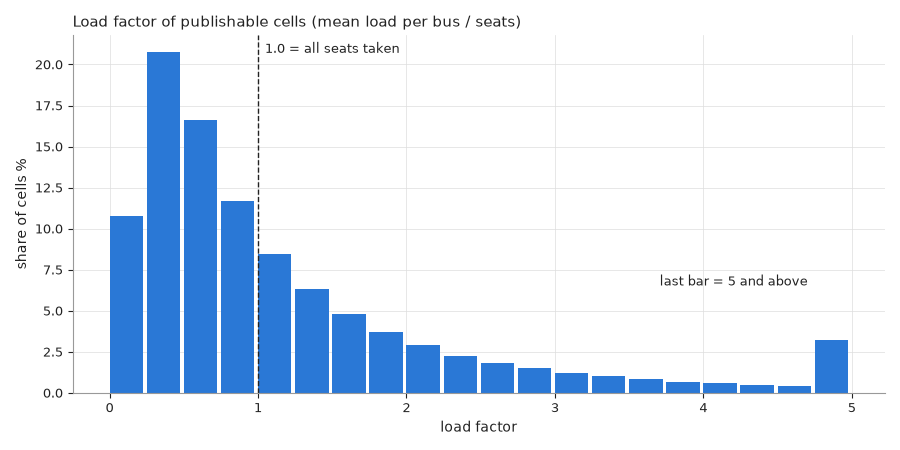
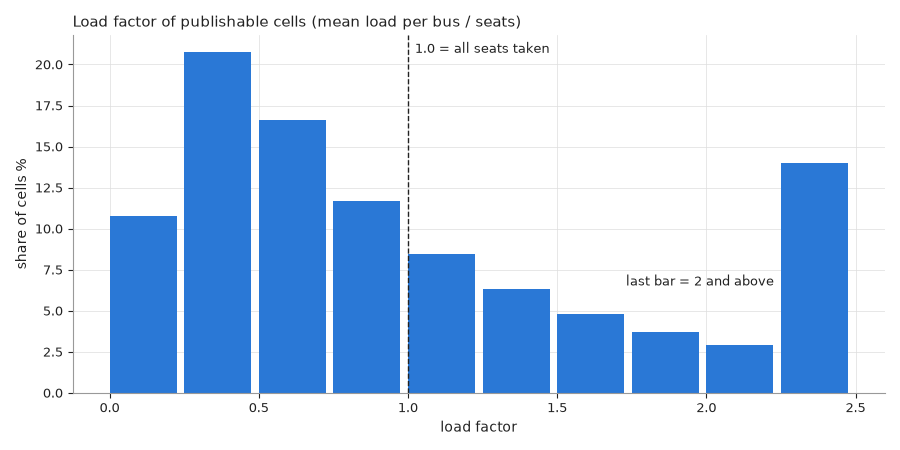
Model: seat chance from trip-to-trip variation; cap at 1.5x capacity; CHECKS adds output plausibility and level stability
Jury review item 8 and the rerun package. P(seat) uses cv_trip = sqrt(max(cv_day^2 - scale/f, 0) + run_cv^2): day-to-day variation minus its sampling part, plus bus-to-bus variation (median 0.87 -> 0.43); the full cv still sets the range and confidence. Levels are unchanged to four decimals. Loads above 1.5x total capacity are capped and marked low confidence (12.3% of cells). CHECKS gains section 13 (mean load per observed bus by hour, crushed share by hour and flow band, shares above 1.5x and 2x capacity, N_obs < 1) and section 14 (week 1 vs week 2 published levels: 89.2% within one level vs a 92.4% split-half ceiling). Key numbers are in coverage.json 'checks'.

diff --git a/src/seatcast/checks.py b/src/seatcast/checks.py
@@ -737,6 +737,125 @@ def verdict(L):
             f"{hi['routes_over_cap']} routes carrying {hi['routes_over_cap_pax_pct']}%, which is too much of the network to treat as noise.")
 
 
+PLAUS = '''
+CREATE OR REPLACE TEMP TABLE pc AS SELECT daytype, slot // 2 h, L, total, f, N_obs, censored, level, confidence, n,
+  {e} * calib * f / N_obs raw FROM {cells} WHERE flag IS NULL;
+'''
+
+
+def plaus(con, e):
+    # published cells only; raw = uncensored load. f bands are quartiles of weekday cell flow
+    con.execute(PLAUS.format(e=e, cells=CELLS))
+    wk = "daytype = 'weekday'"
+    hr = sql(con, f'''SELECT h, count(*) cells, avg(L) mean_L, avg(raw) mean_raw, avg((level LIKE 'CRUSHED%')::INT) crushed
+        FROM pc WHERE {wk} GROUP BY 1 ORDER BY 1''')
+    band = sql(con, f'''WITH b AS (SELECT *, ntile(4) OVER (ORDER BY f) q FROM pc WHERE {wk})
+        SELECT q, min(f) f_lo, max(f) f_hi, count(*) cells, avg((level LIKE 'CRUSHED%')::INT) crushed,
+        avg((confidence = 'low')::INT) low FROM b GROUP BY 1 ORDER BY 1''')
+    tot = sql(con, """SELECT count(*) cells, avg((raw > 1.5 * total)::INT) a15, avg((raw > 2 * total)::INT) a2,
+        avg((N_obs < 1)::INT) nobs1, avg(censored::INT) cens, avg((confidence = 'low')::INT) low FROM pc""").iloc[0]
+    return hr, band, tot
+
+
+STAB = '''
+CREATE OR REPLACE TEMP TABLE w AS SELECT route_id, s0, s1, slot + j slot, date, week, SUM(pax) pax
+  FROM {flows}, (SELECT unnest(range(-{w}, {w} + 1)) j)
+  WHERE daytype = 'weekday' AND week IN (1, 2) AND slot + j BETWEEN 0 AND {last}
+  AND date NOT IN (SELECT CAST(date AS DATE) FROM read_csv({daily}) WHERE flag) GROUP BY ALL;
+CREATE OR REPLACE TEMP TABLE d AS SELECT date, week, row_number() OVER (ORDER BY date) r FROM (SELECT DISTINCT date, week FROM w);
+CREATE OR REPLACE TEMP TABLE nd AS SELECT
+  count(*) FILTER (WHERE week = 1) a, count(*) FILTER (WHERE week = 2) b,
+  count(*) FILTER (WHERE r % 2 = 1) ha, count(*) FILTER (WHERE r % 2 = 0) hb FROM d;
+CREATE OR REPLACE TEMP TABLE g AS SELECT route_id, s0, s1, slot,
+  SUM(pax) FILTER (WHERE d.week = 1) / (SELECT a FROM nd) fa, SUM(pax) FILTER (WHERE d.week = 2) / (SELECT b FROM nd) fb,
+  SUM(pax) FILTER (WHERE d.r % 2 = 1) / (SELECT ha FROM nd) ha, SUM(pax) FILTER (WHERE d.r % 2 = 0) / (SELECT hb FROM nd) hb
+  FROM w JOIN d USING (date, week) GROUP BY ALL;
+CREATE OR REPLACE TEMP TABLE x AS SELECT g.*, k.* EXCLUDE (route_id, s0, s1, slot) FROM g JOIN
+  (SELECT route_id, from_stop s0, to_stop s1, slot, N_obs, seats, total, calib, confidence
+   FROM {cells} WHERE flag IS NULL AND daytype = 'weekday') k USING (route_id, s0, s1, slot);
+CREATE OR REPLACE MACRO lv(f, N, s, t, e) AS CASE WHEN coalesce(f, 0) * e / N / s < {many} THEN 0
+  WHEN coalesce(f, 0) * e / N / s < {few} THEN 1 WHEN coalesce(f, 0) * e / N < t THEN 2 ELSE 3 END;
+'''
+
+
+def stability(con, e):
+    # published level from week 1 flow against week 2, and the split-half (odd vs even days) ceiling
+    k = cfg()
+    con.execute(STAB.format(flows=q1(WORK / 'flows.parquet'), daily=DAILY, cells=CELLS, w=k['slot_window'],
+                            last=24 * 60 // k['slot_min'] - 1, **k['levels']))
+    out = []
+    for name, (a, b) in {'week 1 vs week 2': ('fa', 'fb'), 'odd vs even days (ceiling)': ('ha', 'hb')}.items():
+        x, y = (f'lv({c}, N_obs, seats, total, {e} * calib)' for c in (a, b))
+        r = sql(con, f'''SELECT CASE WHEN grouping(confidence) = 1 THEN 'all' ELSE confidence END conf, count(*) cells,
+            avg(({x} = {y})::INT) same, avg((abs({x} - {y}) <= 1)::INT) within1 FROM x GROUP BY ROLLUP (confidence)''')
+        out += [{'pair': name, **r_} for r_ in r.to_dict('records')]
+    return pd.DataFrame(out)
+
+
+def checks_key(hr, tot, st):
+    w, s = 'week 1 vs week 2', 'odd vs even days (ceiling)'
+
+    def g(p, c):
+        return st[(st['pair'] == p) & (st['conf'] == c)].iloc[0]
+
+    def f(x):
+        return round(float(x), 4)
+    h = hr.set_index('h')
+    return {'weekday_mean_load_0900': f(h.loc[9, 'mean_L']), 'weekday_mean_load_1800': f(h.loc[18, 'mean_L']),
+            'weekday_mean_raw_load_0900': f(h.loc[9, 'mean_raw']), 'weekday_mean_raw_load_1800': f(h.loc[18, 'mean_raw']),
+            'share_above_1_5x_total': f(tot['a15']), 'share_above_2x_total': f(tot['a2']),
+            'share_nobs_below_1': f(tot['nobs1']), 'share_censored': f(tot['cens']), 'share_low_confidence': f(tot['low']),
+            'same_level_week': f(g(w, 'all')['same']), 'within_one_week': f(g(w, 'all')['within1']),
+            'same_level_ceiling': f(g(s, 'all')['same']), 'within_one_ceiling': f(g(s, 'all')['within1']),
+            'same_level_week_high': f(g(w, 'high')['same']), 'within_one_week_high': f(g(w, 'high')['within1']),
+            'same_level_ceiling_high': f(g(s, 'high')['same']), 'within_one_ceiling_high': f(g(s, 'high')['within1'])}
+
+
+def merge_checks(d):
+    f = OUT / 'coverage.json'
+    cov = json.loads(f.read_text(encoding='utf-8'))
+    cov['checks'] = d
+    f.write_text(json.dumps(cov, indent=2, default=str), encoding='utf-8')
+
+
+def unstable(rr, hi, name):
+    r = rr[rr['route'] == name]
+    if r.empty:
+        return f'{name} has no week-to-week rho.'
+    r = r.iloc[0]
+    s = f"{name} has rho {r['rho']:.2f} against the {hi} threshold"
+    if r['rho'] >= hi:
+        return s + ', so it is not unstable.'
+    rank = int((rr[rr['rho'] < hi]['n'] > r['n']).sum()) + 1
+    return s + f', so it is unstable (rank {rank} by sampled passengers among the unstable routes).'
+
+
+def sec13(hr, band, tot, ctop):
+    return f'''## 13. Output plausibility
+
+Published cells (flag none), weekday unless stated. Mean load per observed bus is the published load (censored at {ctop} x total); the raw column is uncensored.
+
+{table(hr.to_dict('records'), [('hour', 'h'), ('cells', 'cells'), ('mean load per observed bus', 'mean_L'), ('mean raw load', 'mean_raw'), ('crushed share', 'crushed')], {'cells': ',', 'mean_L': '.1f', 'mean_raw': '.1f', 'crushed': '.1%'})}
+
+Crushed share by weekday cell flow quartile (f = digital passengers per day on the segment and slot):
+
+{table(band.to_dict('records'), [('quartile', 'q'), ('f from', 'f_lo'), ('f to', 'f_hi'), ('cells', 'cells'), ('crushed share', 'crushed'), ('low confidence', 'low')], {'q': 'd', 'f_lo': '.2f', 'f_hi': '.2f', 'cells': ',', 'crushed': '.1%', 'low': '.1%'})}
+
+Of {int(tot['cells']):,} published cells, {100 * tot['a15']:.1f}% have raw load above 1.5 x total capacity and {100 * tot['a2']:.1f}% above 2 x. {100 * tot['nobs1']:.1f}% have fewer than one observed bus in the slot window (N_obs < 1). Censored cells: {100 * tot['cens']:.1f}%; low confidence overall: {100 * tot['low']:.1f}%.
+'''
+
+
+def sec14(st, un_line):
+    return f'''## 14. Published-level stability
+
+Level recomputed from week 1 and week 2 weekday flow (same N_obs, capacity and E) and compared per cell. The odd-versus-even-days split of the same two weeks is the ceiling: it has no week effect, only sampling noise.
+
+{table(st.to_dict('records'), [('comparison', 'pair'), ('confidence', 'conf'), ('cells', 'cells'), ('same level', 'same'), ('within one level', 'within1')], {'cells': ',', 'same': '.1%', 'within1': '.1%'})}
+
+Unstable routes: {un_line}
+'''
+
+
 def build(con, cov, gp, dy):
     L, M, k = cov['load'], cov['match'], cfg()
     am, pm = k['periods']['am'], k['periods']['pm']
@@ -878,6 +997,11 @@ Delivered service (observed bus-km against scheduled), all days of October:
 
 {verdict(L)}
 ''')
+    ph, pb, pt = plaus(con, L['E']['central'])
+    st = stability(con, L['E']['central'])
+    merge_checks(checks_key(ph, pt, st))
+    S.append(sec13(ph, pb, pt, k['censor_factor']))
+    S.append(sec14(st, unstable(rr, hi, '794DOWN')))
     return '\n'.join(S)
 
 

diff --git a/tests/test_load.py b/tests/test_load.py
@@ -38,3 +38,13 @@ def test_observed_n_joins_route_daytype_band():
     o = load.observe(c, r, 'h')
     assert o['N_obs'].tolist() == [2.0, 3.0, 4.0]  # B has no row: ratio 1
     assert load.observe(c, None, 'h')['N_obs'].tolist() == [4.0, 4.0, 4.0]
+
+
+def test_cv_trip_not_above_cv_and_censor():
+    c = pd.DataFrame({'N': [4.0, 4.0], 'N_obs': [4.0, 1.0], 'n': [50.0, 50.0], 'calib': 1.0, 'f': [8.0, 8.0],
+                      'total': 60.0, 'seats': 39.0, 'cv_day': [0.9, 0.3], 'scale': [2.0, 2.0], 'rho': 0.9})
+    r = load.model(c, {'low': 1.0, 'central': 1.0, 'high': 1.0})
+    assert (r['cv_trip'] <= r['cv']).all() and (r['cv_trip'] > 0).all()
+    assert r['censored'].tolist() == [False, False] and r['L'].tolist() == [2.0, 8.0]
+    h = load.model(c.assign(f=[800.0, 800.0], scale=1.0), {'low': 1.0, 'central': 1.0, 'high': 1.0})
+    assert h['censored'].all() and (h['L'] == 90).all() and (h['confidence'] == 'low').all()

diff --git a/src/seatcast/load.py b/src/seatcast/load.py
@@ -145,7 +145,9 @@ def model(c, E):
         c[x] = np.minimum(e * c['calib'] * c['f'] / N, top)  # censored: well sampled, magnitude uncertain
     c['LF'] = c['L'] / c['seats']
     c['cv'] = np.sqrt(1 / c['n'].clip(lower=1) + c['cv_day'] ** 2 + run2)
-    c['p_seat'] = p_seat(c['L'].fillna(0), c['seats'], c['cv'])
+    # trip-to-trip spread only: day-to-day CV minus its sampling-noise share (scale / f), plus bus-to-bus run_cv
+    c['cv_trip'] = np.sqrt((c['cv_day'] ** 2 - c['scale'] / c['f']).clip(lower=0) + run2)
+    c['p_seat'] = p_seat(c['L'].fillna(0), c['seats'], c['cv_trip'])
     for x in ['low', '', 'high']:
         c['level' + (x and '_' + x)] = level(c['L' + (x and '_' + x)], c['seats'], c['total'])
     c['flag'] = np.select([c['N'] == 0, c['n'] < n], ['gap', 'low_n'], None)

diff --git a/tests/test_data.py b/tests/test_data.py
@@ -171,7 +171,7 @@ def test_cells():
 def test_load_sanity():
     m = json.loads(COV.read_text(encoding='utf-8'))['load']
     assert m['represent']['represented_pct'] > 95  # placed + imputed + scaled digital passengers
-    assert m['censored_pct_of_cells'] < 5  # regression floor; cells above censor_factor x total are clipped
+    assert m['censored_pct_of_cells'] < 15  # regression floor (12.3 at censor_factor 1.5); cells above censor_factor x total are clipped
     assert m['schedule_gap_pax_pct'] < 5
 
 

diff --git a/docs/CHECKS.md b/docs/CHECKS.md
@@ -40,7 +40,7 @@ Morning peak 9:00 (14,327 passengers per day), evening peak 18:00 (9,902). Quiet
 | saturday | 5 | 81,251 |
 | sunday | 6 | 50,216 |
 
-Weekday cells carry more flow than Sunday cells in 79.1% of the cells both day types share. Holidays count as Sundays.
+Weekday cells carry more flow than Sunday cells in 75.6% of the cells both day types share. Holidays count as Sundays.
 
 ## 5. Busiest corridors
 
@@ -131,44 +131,44 @@ Days flagged (beyond the configured deviation from the same-weekday median): non
 
 ![Load factor distribution](img/lf_hist.png)
 
-Publishable cells: 2,312,450 of 4,411,005. Load factor p10 / p50 / p90 / p99 = 0.241 / 0.785 / 2.743 / 4.865.
-Over seats: 40.19% of cells. Over total capacity: 22.94%. Censored at 3 x total capacity: 3.037% of cells (these show as the top load factor, which is the censor cap and explains the repeated top values below).
+Publishable cells: 2,312,452 of 4,411,005. Load factor p10 / p50 / p90 / p99 = 0.241 / 0.785 / 2.427 / 2.432.
+Over seats: 40.19% of cells. Over total capacity: 22.94%. Censored at 1.5 x total capacity: 12.338% of cells (these show as the top load factor, which is the censor cap and explains the repeated top values below).
 
 Routes with most censored cells:
 
 | route | dir | censored cells | sampled pax-segments |
 |---|---|---|---|
-| 717A | UP | 1686 | 858,651 |
-| 717 | DOWN | 1541 | 321,713 |
-| 717 | UP | 1455 | 347,035 |
-| 717A | DOWN | 1441 | 729,924 |
-| 539 | DOWN | 1118 | 396,422 |
-| 717B | DOWN | 1087 | 384,845 |
-| 774 | DOWN | 831 | 315,947 |
-| 774 | UP | 811 | 239,909 |
-| 525 | DOWN | 798 | 165,581 |
-| 525 | UP | 798 | 171,869 |
+| 717A | UP | 4184 | 1,265,266 |
+| 717A | DOWN | 3131 | 1,018,869 |
+| 717 | UP | 3123 | 493,728 |
+| 717 | DOWN | 3087 | 442,655 |
+| 717B | DOWN | 2861 | 572,458 |
+| 539 | UP | 2330 | 447,017 |
+| 706 | DOWN | 2262 | 257,397 |
+| 539 | DOWN | 1970 | 505,392 |
+| 774 | DOWN | 1954 | 436,957 |
+| 717B | UP | 1890 | 413,987 |
 
 Ten most crowded route-hours by standee-minutes:
 
 | route | day type | hour | standee-min | LF | sampled pax | stretch |
 |---|---|---|---|---|---|---|
-| 717ADOWN | saturday | 9 | 95,479 | 4.86 | 273 | Shiv Murti  2 (NH8) /  Dwarka Mor -> Mahipal Pur Village |
-| 729DOWN | weekday | 8 | 93,058 | 4.86 | 1,288 | Uppal Hotel -> Shiv Murti (NH8) |
-| 717ADOWN | weekday | 9 | 85,633 | 4.86 | 951 | Kathuria Public School/Vasant Kunj D7 -> Masood Pur Dairy |
-| 729DOWN | saturday | 8 | 82,395 | 4.86 | 303 | Shiv Murti (NH8) -> Rang puri (NH8) |
-| 717AUP | saturday | 8 | 81,880 | 4.86 | 369 | Saket Crossing -> Maidan Garhi Crossing (SDM Court) |
-| 578DOWN | weekday | 8 | 81,430 | 4.86 | 803 | Check Post  /  Toll Tax Post -> Bamnoli Crossing |
-| 717ADOWN | saturday | 8 | 80,990 | 4.86 | 229 | Samalkha Crossing -> Shiv Murti  2 (NH8) /  Dwarka Mor |
-| 729DOWN | weekday | 9 | 78,437 | 4.86 | 875 | Uppal Hotel -> Shiv Murti (NH8) |
-| 539DOWN | saturday | 9 | 75,764 | 4.86 | 142 | Jhatikara Crossing -> Rewla Taj Pur More |
-| 539UP | weekday | 20 | 75,634 | 4.86 | 489 | Kapashera Village Bijwasan Road -> Shri Golok Dham Bijwasan School / Bijwason School |
+| 729DOWN | weekday | 8 | 41,823 | 2.43 | 1,288 | Uppal Hotel -> Shiv Murti (NH8) |
+| 717ADOWN | sunday | 9 | 41,053 | 2.43 | 199 | VASANT KUNJ BUS STAND / Vasant Kunj sec B-1 -> Vasant Kunj SecD/34 |
+| 729DOWN | saturday | 8 | 41,028 | 2.43 | 303 | Shiv Murti (NH8) -> Rang puri (NH8) |
+| 717ADOWN | saturday | 9 | 39,676 | 2.43 | 273 | Shiv Murti  2 (NH8) /  Dwarka Mor -> Mahipal Pur Village |
+| 729UP | weekday | 9 | 38,895 | 2.43 | 772 | Shiv Murti -> Rajokari Xing |
+| 729DOWN | sunday | 10 | 38,255 | 2.43 | 189 | Mahipal Pur (NH8) / MAHIPAL PUR CROSSING -> Shankar Vihar NH8 / Shankar Vihar |
+| 729UP | weekday | 8 | 37,894 | 2.43 | 586 | Shiv Murti -> Rajokari Xing |
+| 764DOWN | weekday | 9 | 37,514 | 2.43 | 572 | RK Puram Sec 6 -> Swami Malai Mandir |
+| 729DOWN | sunday | 8 | 37,400 | 2.43 | 262 | Shiv Murti (NH8) -> Rang puri (NH8) |
+| 729DOWN | weekday | 9 | 37,328 | 2.43 | 875 | Uppal Hotel -> Shiv Murti (NH8) |
 
 ## 10. Where estimates are weakest
 
-- Low-n cells: 1,567,115 of 4,411,005 cells have fewer than 5 sampled passengers and are shown as limited data. Of the publishable cells, confidence is high 24.21%, medium 42.72%, low 33.07%.
+- Low-n cells: 1,567,113 of 4,411,005 cells have fewer than 5 sampled passengers and are shown as limited data. Of the publishable cells, confidence is high 18.83%, medium 39.23%, low 41.94%.
 - Schedule gaps: 531,440 cells carry passengers but no scheduled bus (2.62% of passengers).
-- Hours with the highest low-confidence share: 0:00 (54%), 4:00 (53%), 3:00 (50%).
+- Hours with the highest low-confidence share: 4:00 (59%), 0:00 (56%), 23:00 (53%).
 
 Ten worst-placed routes among the 100 busiest by passengers:
 
@@ -189,30 +189,30 @@ Per hour of day, publishable cells:
 
 | hour | cells | low confidence | mean sampled pax-segments |
 |---|---|---|---|
-| 0 | 1,579 | 54% | 13.5 |
-| 1 | 1,562 | 46% | 19.0 |
-| 2 | 1,341 | 48% | 18.1 |
-| 3 | 1,703 | 50% | 13.4 |
-| 4 | 5,451 | 53% | 16.0 |
-| 5 | 33,300 | 42% | 22.8 |
-| 6 | 83,900 | 36% | 28.7 |
-| 7 | 136,634 | 32% | 40.5 |
-| 8 | 184,646 | 29% | 62.2 |
-| 9 | 197,538 | 28% | 69.9 |
-| 10 | 174,937 | 29% | 51.1 |
-| 11 | 143,194 | 32% | 33.8 |
-| 12 | 118,150 | 36% | 26.5 |
-| 13 | 100,359 | 38% | 23.3 |
-| 14 | 97,212 | 39% | 22.7 |
-| 15 | 103,892 | 37% | 24.7 |
-| 16 | 121,198 | 35% | 28.7 |
-| 17 | 147,804 | 33% | 37.7 |
-| 18 | 164,966 | 31% | 49.0 |
-| 19 | 159,177 | 31% | 51.5 |
-| 20 | 140,121 | 32% | 44.0 |
-| 21 | 107,800 | 34% | 34.2 |
-| 22 | 63,962 | 39% | 25.6 |
-| 23 | 22,024 | 49% | 17.8 |
+| 0 | 1,579 | 56% | 13.5 |
+| 1 | 1,562 | 50% | 19.0 |
+| 2 | 1,341 | 49% | 18.1 |
+| 3 | 1,703 | 51% | 13.4 |
+| 4 | 5,451 | 59% | 16.0 |
+| 5 | 33,300 | 49% | 22.8 |
+| 6 | 83,900 | 41% | 28.7 |
+| 7 | 136,632 | 40% | 40.5 |
+| 8 | 184,646 | 42% | 62.2 |
+| 9 | 197,540 | 44% | 69.9 |
+| 10 | 174,937 | 42% | 51.1 |
+| 11 | 143,194 | 38% | 33.8 |
+| 12 | 118,150 | 40% | 26.5 |
+| 13 | 100,358 | 42% | 23.3 |
+| 14 | 97,212 | 42% | 22.7 |
+| 15 | 103,892 | 41% | 24.7 |
+| 16 | 121,198 | 39% | 28.7 |
+| 17 | 147,804 | 40% | 37.7 |
+| 18 | 164,966 | 44% | 49.0 |
+| 19 | 159,178 | 45% | 51.5 |
+| 20 | 140,122 | 41% | 44.0 |
+| 21 | 107,800 | 41% | 34.2 |
+| 22 | 63,963 | 45% | 25.6 |
+| 23 | 22,024 | 53% | 17.8 |
 
 ## 11. GPS ground truth
 
@@ -253,3 +253,62 @@ Delivered service (observed bus-km against scheduled), all days of October:
 | 0.95 | 3.0 | 230 | 26.2 | 93.4 | 166.5 |
 
 Scaling every over-capacity route down to capacity was analysed and not applied (calibration switch: False). Even the mildest setting (quantile 0.9, crush 3.0) flags 91 routes carrying 10.7% of riders, and the strictest (quantile 0.95, crush 1.5) flags 837 routes carrying 76.0%, which is too much of the network to treat as noise.
+
+## 13. Output plausibility
+
+Published cells (flag none), weekday unless stated. Mean load per observed bus is the published load (censored at 1.5 x total); the raw column is uncensored.
+
+| hour | cells | mean load per observed bus | mean raw load | crushed share |
+|---|---|---|---|---|
+| 0 | 1,023 | 25.9 | 26.3 | 10.3% |
+| 1 | 909 | 31.6 | 33.0 | 16.7% |
+| 2 | 733 | 25.9 | 26.1 | 5.9% |
+| 3 | 913 | 22.1 | 22.1 | 2.6% |
+| 4 | 3,151 | 29.7 | 32.5 | 12.2% |
+| 5 | 17,842 | 29.1 | 32.3 | 13.4% |
+| 6 | 42,508 | 29.6 | 32.9 | 14.5% |
+| 7 | 67,747 | 37.9 | 46.9 | 23.9% |
+| 8 | 86,446 | 49.8 | 72.4 | 38.6% |
+| 9 | 88,824 | 54.3 | 81.8 | 44.7% |
+| 10 | 80,234 | 46.9 | 62.3 | 34.1% |
+| 11 | 69,068 | 33.2 | 37.4 | 16.2% |
+| 12 | 59,757 | 26.2 | 28.4 | 9.6% |
+| 13 | 51,674 | 25.2 | 27.1 | 8.6% |
+| 14 | 50,276 | 25.0 | 27.1 | 8.4% |
+| 15 | 53,087 | 25.4 | 27.2 | 9.5% |
+| 16 | 61,029 | 27.9 | 30.6 | 12.0% |
+| 17 | 72,627 | 38.2 | 47.8 | 23.5% |
+| 18 | 78,790 | 49.2 | 69.7 | 37.6% |
+| 19 | 75,665 | 51.5 | 77.3 | 40.8% |
+| 20 | 67,722 | 42.5 | 56.9 | 28.3% |
+| 21 | 53,827 | 35.6 | 42.3 | 19.9% |
+| 22 | 33,702 | 29.8 | 34.0 | 14.1% |
+| 23 | 12,650 | 26.5 | 29.3 | 10.3% |
+
+Crushed share by weekday cell flow quartile (f = digital passengers per day on the segment and slot):
+
+| quartile | f from | f to | cells | crushed share | low confidence |
+|---|---|---|---|---|---|
+| 1 | 0.25 | 0.60 | 282,551 | 0.7% | 75.0% |
+| 2 | 0.60 | 1.40 | 282,551 | 8.8% | 2.5% |
+| 3 | 1.40 | 3.45 | 282,551 | 25.7% | 12.8% |
+| 4 | 3.45 | 122.25 | 282,551 | 63.0% | 42.2% |
+
+Of 2,312,452 published cells, 12.3% have raw load above 1.5 x total capacity and 7.3% above 2 x. 11.6% have fewer than one observed bus in the slot window (N_obs < 1). Censored cells: 12.3%; low confidence overall: 41.9%.
+
+## 14. Published-level stability
+
+Level recomputed from week 1 and week 2 weekday flow (same N_obs, capacity and E) and compared per cell. The odd-versus-even-days split of the same two weeks is the ceiling: it has no week effect, only sampling noise.
+
+| comparison | confidence | cells | same level | within one level |
+|---|---|---|---|---|
+| week 1 vs week 2 | all | 1,123,193 | 58.8% | 89.1% |
+| week 1 vs week 2 | low | 368,182 | 74.9% | 91.1% |
+| week 1 vs week 2 | medium | 444,839 | 49.1% | 84.3% |
+| week 1 vs week 2 | high | 310,172 | 53.5% | 93.7% |
+| odd vs even days (ceiling) | all | 1,123,193 | 62.5% | 92.4% |
+| odd vs even days (ceiling) | high | 310,172 | 57.3% | 95.6% |
+| odd vs even days (ceiling) | medium | 444,839 | 53.1% | 88.8% |
+| odd vs even days (ceiling) | low | 368,182 | 78.3% | 94.0% |
+
+Unstable routes: 794DOWN has rho 0.28 against the 0.7 threshold, so it is unstable (rank 3 by sampled passengers among the unstable routes).
